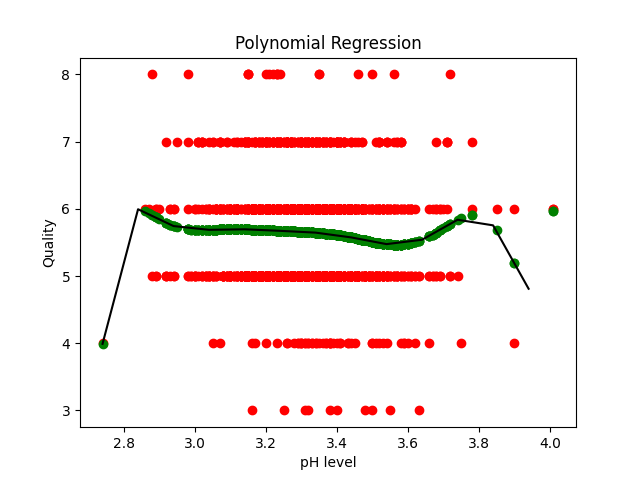
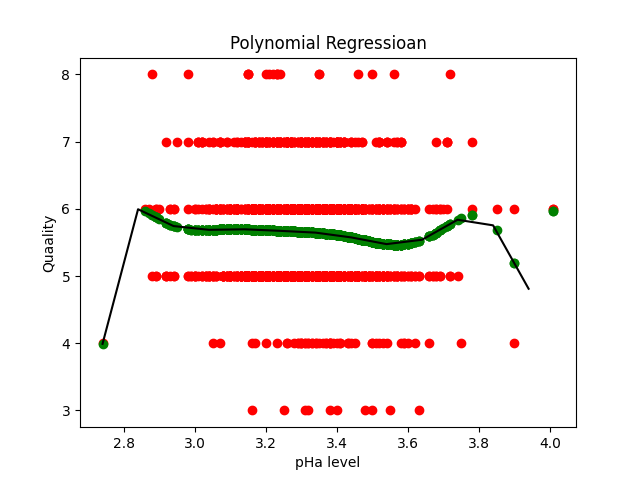
refactoring

Changed region(s): [[0.3438, 0.0625, 0.6562, 0.125], [0.4688, 0.9375, 0.5625, 1.0], [0.0625, 0.4375, 0.0938, 0.5625]]

diff --git a/reg_pol.py b/reg_pol.py
@@ -62,16 +62,28 @@ def reg_pol_izgled_regresije():
     lr.fit(x_poly, y)
     y_predict = lr.predict(x_poly)
 
-    plt = plot(x, y, y_predict, lr, 4)
+    X_grid = np.arange(min(x), max(x), 0.1)
+    X_grid = X_grid.reshape((len(X_grid), 1))
+    plt.scatter(x, y, color='red')
+    plt.scatter(x, y_predict, color='green')
+
+    plt.title('Polynomial Regression')
+    plt.xlabel('pH level')
+    plt.ylabel('Quality')
+
+    plt.plot(X_grid, lr.predict(
+        poly_reg.fit_transform(X_grid)), color='black')
 
     file_exists = os.path.exists('static/images/polinomijalna_regresija.png')
 
     if file_exists:
         image = os.path.join('static/images/polinomijalna_regresija.png')
     else:
-
         plt.savefig('static/images/polinomijalna_regresija.png')
         image = os.path.join('static/images/broken_page.png')
+        plt.clf()
+        plt.cla()
+        plt.close()
 
     return render_template(
         'info.html',
@@ -163,20 +175,9 @@ def prisilni_pristup():
 @reg_pol_page.route('/treniranje_modela')
 def treniranje_modela():
 
-    min_deg = 1
-    max_deg = 10
-    rmses, min_rmse, min_deg = rmses_deg_from_range(x, y, min_deg, max_deg)
-    degrees = range(1, 10)
+    y_predict = y_pred_9()
 
-    poly_reg = PolynomialFeatures(degree=min_deg)
-    x_poly = poly_reg.fit_transform(x.to_numpy().reshape(-1, 1))
-
-    lr = linear_model.LinearRegression(
-        fit_intercept=True, copy_X=True)
-
-    lr.fit(x_poly, y)
-
-    y_predict = lr.predict(x_poly)
+    print(y_predict)
 
     df = pd.DataFrame({'Prave vrijednosti': y, 'Procjene': y_predict})
 
@@ -194,6 +195,21 @@ def treniranje_modela():
         title='treniranje modela tablica',
         switch=2,
     )
+
+
+def y_pred_9():
+    min_deg = 1
+    max_deg = 10
+    rmses, min_rmse, min_deg = rmses_deg_from_range(x, y, min_deg, max_deg)
+
+    poly_reg2 = PolynomialFeatures(degree=min_deg)
+    x_poly = poly_reg2.fit_transform(x.to_numpy().reshape(-1, 1))
+    lr2 = linear_model.LinearRegression(
+        fit_intercept=True, copy_X=True)
+
+    lr2.fit(x_poly, y)
+    y_predict = lr2.predict(x_poly)
+    return y_predict
 
 
 # 2.5
@@ -214,13 +230,25 @@ def izgled_modela():
 
     file_exists = os.path.exists('static/images/izgled_modela.png')
 
-    plt = plot(x, y, y_predict, lr, min_deg)
+    X_grid = np.arange(min(x), max(x), 0.1)
+    X_grid = X_grid.reshape((len(X_grid), 1))
+    plt.scatter(x, y, color='red')
+    plt.scatter(x, y_predict, color='green')
+
+    plt.plot(X_grid, lr.predict(
+        poly_reg.fit_transform(X_grid)), color='black')
+    plt.title('Polynomial Regressioan')
+    plt.xlabel('pHa level')
+    plt.ylabel('Quaality')
 
     if file_exists:
         image = os.path.join('static/images/izgled_modela.png')
     else:
         plt.savefig('static/images/izgled_modela.png')
         image = os.path.join('static/images/broken_page.png')
+        plt.clf()
+        plt.cla()
+        plt.close()
 
     return render_template(
         'info.html',

diff --git a/reg_pol_methods.py b/reg_pol_methods.py
@@ -5,10 +5,12 @@ import matplotlib.pyplot as plt
 from math import degrees
 import numpy as np
 import matplotlib
+import os.path
 matplotlib.use('Agg')
 
 
-def plot(x, y, y_pred, lin_reg, degree):
+# Ne koristi se
+def plot(x, y, y_pred, lin_reg, degree, pic):
     poly_reg = PolynomialFeatures(degree=degree)
     X_grid = np.arange(min(x), max(x), 0.1)
     X_grid = X_grid.reshape((len(X_grid), 1))
@@ -21,7 +23,20 @@ def plot(x, y, y_pred, lin_reg, degree):
 
     plt.plot(X_grid, lin_reg.predict(
         poly_reg.fit_transform(X_grid)), color='black')
-    return plt
+
+    file_exists = os.path.exists(pic)
+
+    if file_exists:
+        image = os.path.join(pic)
+        return image
+    else:
+        plt.savefig(pic)
+        image = os.path.join('static/images/broken_page.png')
+        plt.clf()
+        plt.cla()
+        plt.close()
+
+        return image
 
 
 # reg_pol_prisilni_pristup
@@ -57,11 +72,11 @@ def rmses_deg_from_range(x, y, min_deg, max_deg):
 
 # reg_pol_treniranje_modela
 # reg_pol_izgled_modela
-def model_training(x, y, min_deg):
-    poly_reg = PolynomialFeatures(degree=min_deg)
+def model_training(x, y, degree):
+    poly_reg = PolynomialFeatures(degree=degree)
     x_poly = poly_reg.fit_transform(x.to_numpy().reshape(-1, 1))
     lr = linear_model.LinearRegression(
         fit_intercept=True, normalize=False, copy_X=True)
     lr.fit(x_poly, y)
     y_predict = lr.predict(x_poly)
-    return y_predict
+    return (y_predict, lr)
